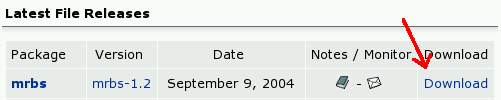
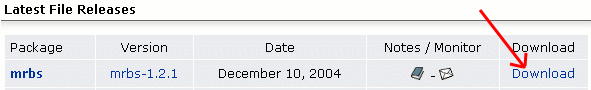
* Updated website for 1.2.1 release.

diff --git a/mrbsweb/trunk/ChangeLog.html b/mrbsweb/trunk/ChangeLog.html
@@ -65,6 +65,37 @@
 [============================]
 
 -------------------------------------------------------------------------------
+<strong>Version 1.2.1</strong> (Fri Dec 10 10:00:00 GMT 2004):
+
+[-] MySQL tables fixed for MySQL 4.0, namely to remove DEFAULT from
+      auto_increment columns.
+[-] Bug 1027328 fixed, sendMail function now provides the correct parameters
+      and headers for each type of backend (mail, sendmail or smtp). (Thekk)
+[*] RFE 1000967 - enhanced email notifications. (Neil Hawes, Stuart
+      Chalmers)
+[-] Bug 1068522 fixed, changed &quot;&quot; around $db_password value in
+      config.inc.php to &#039;&#039; so that special characters are not interpeted.
+      (Matt Schuler)
+[-] Bug 1035790 fixed, can now book series with pgsql. (Thekk)
+[-] Bug 994056 fixed, emails are sent when they should be now to who they
+      should be sent to.
+[-] Bug 1040185 fixed, AM and PM generation no longer causes
+      &quot;Negative timestamps are not supported under any known
+      version of Windows&quot; PHP error on Windows MRBS installations in far
+      eastern time zones.
+[-] Fixed lang/locale selection for Czech language. Czech country code is
+      &quot;cs&quot;, not &quot;cz&quot;.
+[-] Fix added for the ChangeOptionDays JavaScript function in some older
+      browser.
+[-] Fix for page refresh functionality. If a refresh time is configured,
+      only do it for day.php, week.php and month.php
+[*] Updated Netherlands translation (Marc ter Horst)
+[-] MRBS now sends content-type and charset in an HTTP header, which can
+      fix some Apache installations where a charset if forced in the
+      config. 
+
+
+-------------------------------------------------------------------------------
 <strong>Version 1.2</strong> (Thu Sep 9 14:00:00 BST 2004):
 
 [-] Notification emails are now RFC2045 compliant. Mail body can contain non

diff --git a/mrbsweb/trunk/download.html b/mrbsweb/trunk/download.html
@@ -71,7 +71,7 @@ doPageHeader("Download");
               link in front of &quot;mrbs&quot; package like this :</P>
             <P align="center" class="body"><br>
               <img src="images/mrbs_download.png"
-               alt="Picture of SF download page" width="501" height="100"> 
+               alt="Picture of SF download page" width="591" height="90"> 
             </P>
             <P class="body"> However I tend to get a bit behind releasing files, 
               so CVS is probably the best way to get stuff. Instructions are <A HREF="http://sourceforge.net/cvs/?group_id=5113">here</A>. 
